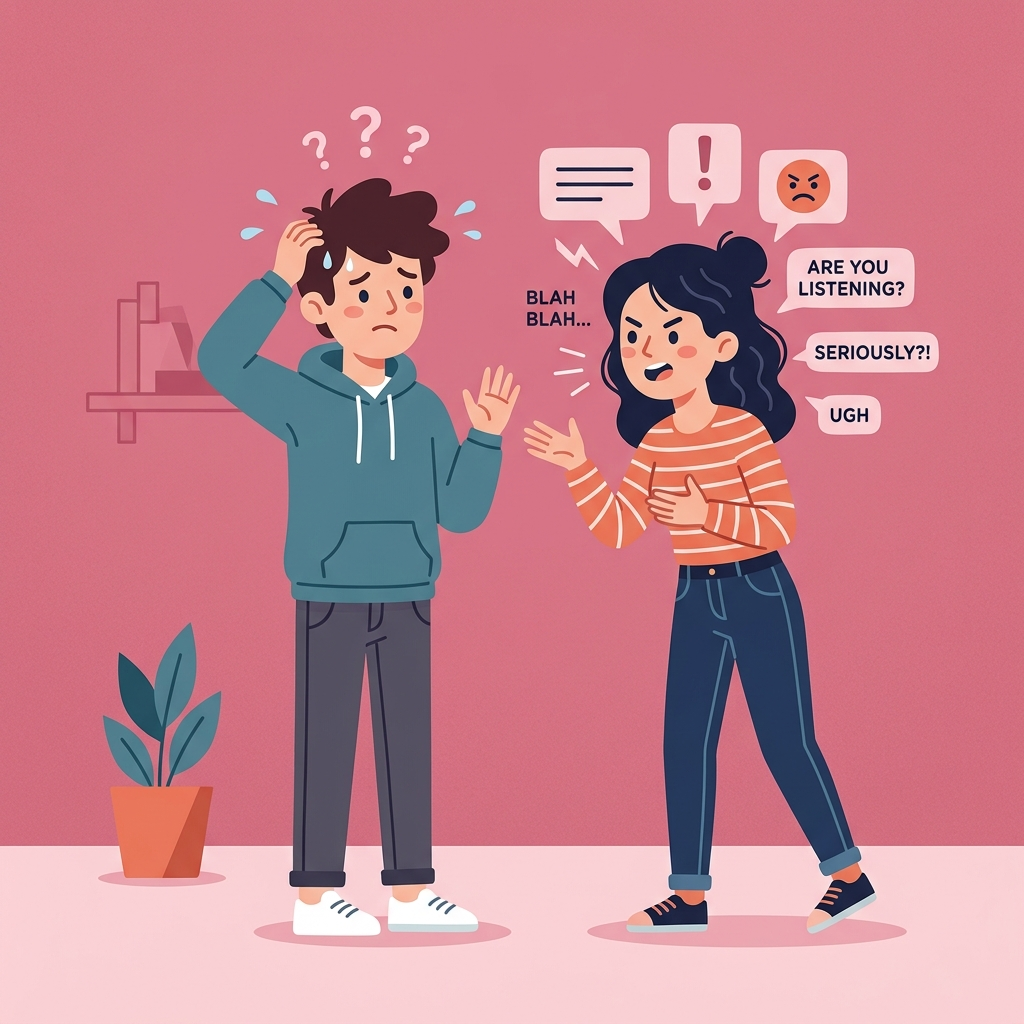
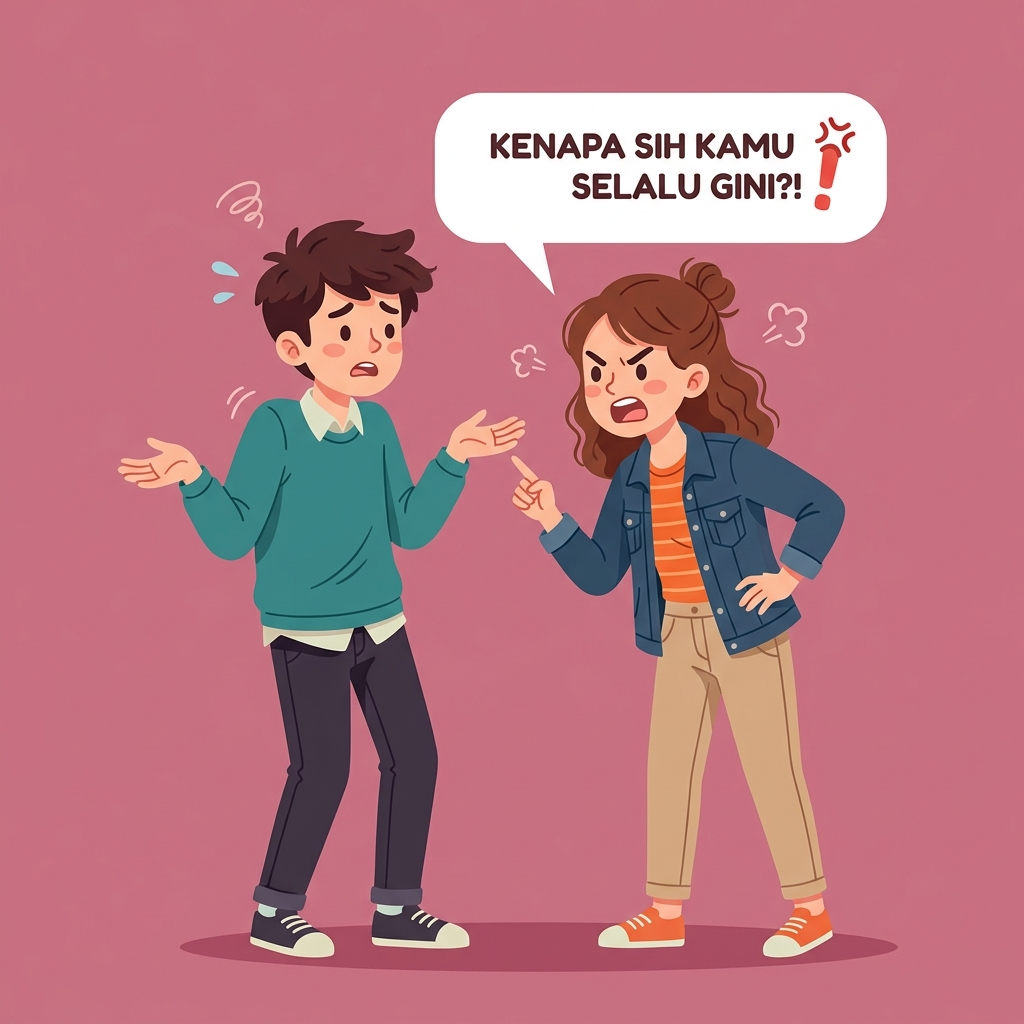
Minor update v1

diff --git a/lib/features/articles/presentation/articles_screen.dart b/lib/features/articles/presentation/articles_screen.dart
@@ -3,6 +3,7 @@ import 'package:flutter/material.dart';
 import 'package:go_router/go_router.dart';
 import 'package:flutter_riverpod/flutter_riverpod.dart';
 import 'package:intl/intl.dart';
+import 'package:shimmer/shimmer.dart';
 import '../../../core/theme/app_theme.dart';
 import '../data/supabase_service.dart';
 
@@ -404,58 +405,62 @@ class _ArticlesScreenState extends ConsumerState<ArticlesScreen> {
                 border: Border.all(color: const Color(0xFFE0E0E0)),
               ),
               padding: const EdgeInsets.all(16),
-              child: Column(
-                crossAxisAlignment: CrossAxisAlignment.start,
-                children: [
-                  Container(
-                    width: 250,
-                    height: 18,
-                    decoration: BoxDecoration(
-                      color: Colors.grey.withAlpha(50),
-                      borderRadius: BorderRadius.circular(9),
-                    ),
-                  ),
-                  const SizedBox(height: 12),
-                  Container(
-                    width: double.infinity,
-                    height: 12,
-                    decoration: BoxDecoration(
-                      color: Colors.grey.withAlpha(50),
-                      borderRadius: BorderRadius.circular(6),
-                    ),
-                  ),
-                  const SizedBox(height: 8),
-                  Container(
-                    width: double.infinity,
-                    height: 12,
-                    decoration: BoxDecoration(
-                      color: Colors.grey.withAlpha(50),
-                      borderRadius: BorderRadius.circular(6),
-                    ),
-                  ),
-                  const Spacer(),
-                  Row(
-                    mainAxisAlignment: MainAxisAlignment.spaceBetween,
-                    children: [
-                      Container(
-                        width: 80,
-                        height: 12,
-                        decoration: BoxDecoration(
-                          color: Colors.grey.withAlpha(50),
-                          borderRadius: BorderRadius.circular(6),
-                        ),
+              child: Shimmer.fromColors(
+                baseColor: Colors.grey[300]!,
+                highlightColor: Colors.grey[100]!,
+                child: Column(
+                  crossAxisAlignment: CrossAxisAlignment.start,
+                  children: [
+                    Container(
+                      width: 250,
+                      height: 18,
+                      decoration: BoxDecoration(
+                        color: Colors.white,
+                        borderRadius: BorderRadius.circular(9),
                       ),
-                      Container(
-                        width: 60,
-                        height: 12,
-                        decoration: BoxDecoration(
-                          color: Colors.grey.withAlpha(50),
-                          borderRadius: BorderRadius.circular(6),
-                        ),
+                    ),
+                    const SizedBox(height: 12),
+                    Container(
+                      width: double.infinity,
+                      height: 12,
+                      decoration: BoxDecoration(
+                        color: Colors.white,
+                        borderRadius: BorderRadius.circular(6),
                       ),
-                    ],
-                  ),
-                ],
+                    ),
+                    const SizedBox(height: 8),
+                    Container(
+                      width: double.infinity,
+                      height: 12,
+                      decoration: BoxDecoration(
+                        color: Colors.white,
+                        borderRadius: BorderRadius.circular(6),
+                      ),
+                    ),
+                    const Spacer(),
+                    Row(
+                      mainAxisAlignment: MainAxisAlignment.spaceBetween,
+                      children: [
+                        Container(
+                          width: 80,
+                          height: 12,
+                          decoration: BoxDecoration(
+                            color: Colors.white,
+                            borderRadius: BorderRadius.circular(6),
+                          ),
+                        ),
+                        Container(
+                          width: 60,
+                          height: 12,
+                          decoration: BoxDecoration(
+                            color: Colors.white,
+                            borderRadius: BorderRadius.circular(6),
+                          ),
+                        ),
+                      ],
+                    ),
+                  ],
+                ),
               ),
             );
           },

diff --git a/lib/features/data_cewe/presentation/data_cewe_screen.dart b/lib/features/data_cewe/presentation/data_cewe_screen.dart
@@ -2,6 +2,7 @@ import 'dart:async';
 import 'package:flutter/material.dart';
 import 'package:flutter_riverpod/flutter_riverpod.dart';
 import 'package:go_router/go_router.dart';
+import 'package:shimmer/shimmer.dart';
 import '../../../core/theme/app_theme.dart';
 import 'data_cewe_provider.dart';
 
@@ -216,49 +217,53 @@ class _DataCeweScreenState extends ConsumerState<DataCeweScreen> {
             border: Border.all(color: const Color(0xFFE0E0E0)),
           ),
           padding: const EdgeInsets.all(20),
-          child: Column(
-            crossAxisAlignment: CrossAxisAlignment.start,
-            children: [
-              Row(
-                mainAxisAlignment: MainAxisAlignment.spaceBetween,
-                children: [
-                  Container(
-                    width: 150,
-                    height: 20,
-                    decoration: BoxDecoration(
-                      color: Colors.grey.withAlpha(50),
-                      borderRadius: BorderRadius.circular(10),
+          child: Shimmer.fromColors(
+            baseColor: Colors.grey[300]!,
+            highlightColor: Colors.grey[100]!,
+            child: Column(
+              crossAxisAlignment: CrossAxisAlignment.start,
+              children: [
+                Row(
+                  mainAxisAlignment: MainAxisAlignment.spaceBetween,
+                  children: [
+                    Container(
+                      width: 150,
+                      height: 20,
+                      decoration: BoxDecoration(
+                        color: Colors.white,
+                        borderRadius: BorderRadius.circular(10),
+                      ),
                     ),
-                  ),
-                  Container(
-                    width: 60,
-                    height: 20,
-                    decoration: BoxDecoration(
-                      color: AppTheme.darkPastelGreen.withAlpha(30),
-                      borderRadius: BorderRadius.circular(10),
+                    Container(
+                      width: 60,
+                      height: 20,
+                      decoration: BoxDecoration(
+                        color: Colors.white,
+                        borderRadius: BorderRadius.circular(10),
+                      ),
                     ),
+                  ],
+                ),
+                const SizedBox(height: 16),
+                Container(
+                  width: double.infinity,
+                  height: 14,
+                  decoration: BoxDecoration(
+                    color: Colors.white,
+                    borderRadius: BorderRadius.circular(7),
                   ),
-                ],
-              ),
-              const SizedBox(height: 16),
-              Container(
-                width: double.infinity,
-                height: 14,
-                decoration: BoxDecoration(
-                  color: Colors.grey.withAlpha(50),
-                  borderRadius: BorderRadius.circular(7),
                 ),
-              ),
-              const SizedBox(height: 8),
-              Container(
-                width: 200,
-                height: 14,
-                decoration: BoxDecoration(
-                  color: Colors.grey.withAlpha(50),
-                  borderRadius: BorderRadius.circular(7),
+                const SizedBox(height: 8),
+                Container(
+                  width: 200,
+                  height: 14,
+                  decoration: BoxDecoration(
+                    color: Colors.white,
+                    borderRadius: BorderRadius.circular(7),
+                  ),
                 ),
-              ),
-            ],
+              ],
+            ),
           ),
         );
       },

diff --git a/lib/main.dart b/lib/main.dart
@@ -13,8 +13,8 @@ void main() async {
   // Edge-to-Edge System UI
   SystemChrome.setSystemUIOverlayStyle(
     const SystemUiOverlayStyle(
-      systemNavigationBarColor: Colors.transparent,
-      systemNavigationBarDividerColor: Colors.transparent,
+      systemNavigationBarColor: Colors.white,
+      systemNavigationBarDividerColor: Colors.white,
       systemNavigationBarContrastEnforced: false,
       systemNavigationBarIconBrightness: Brightness.dark,
       statusBarColor: Colors.transparent,